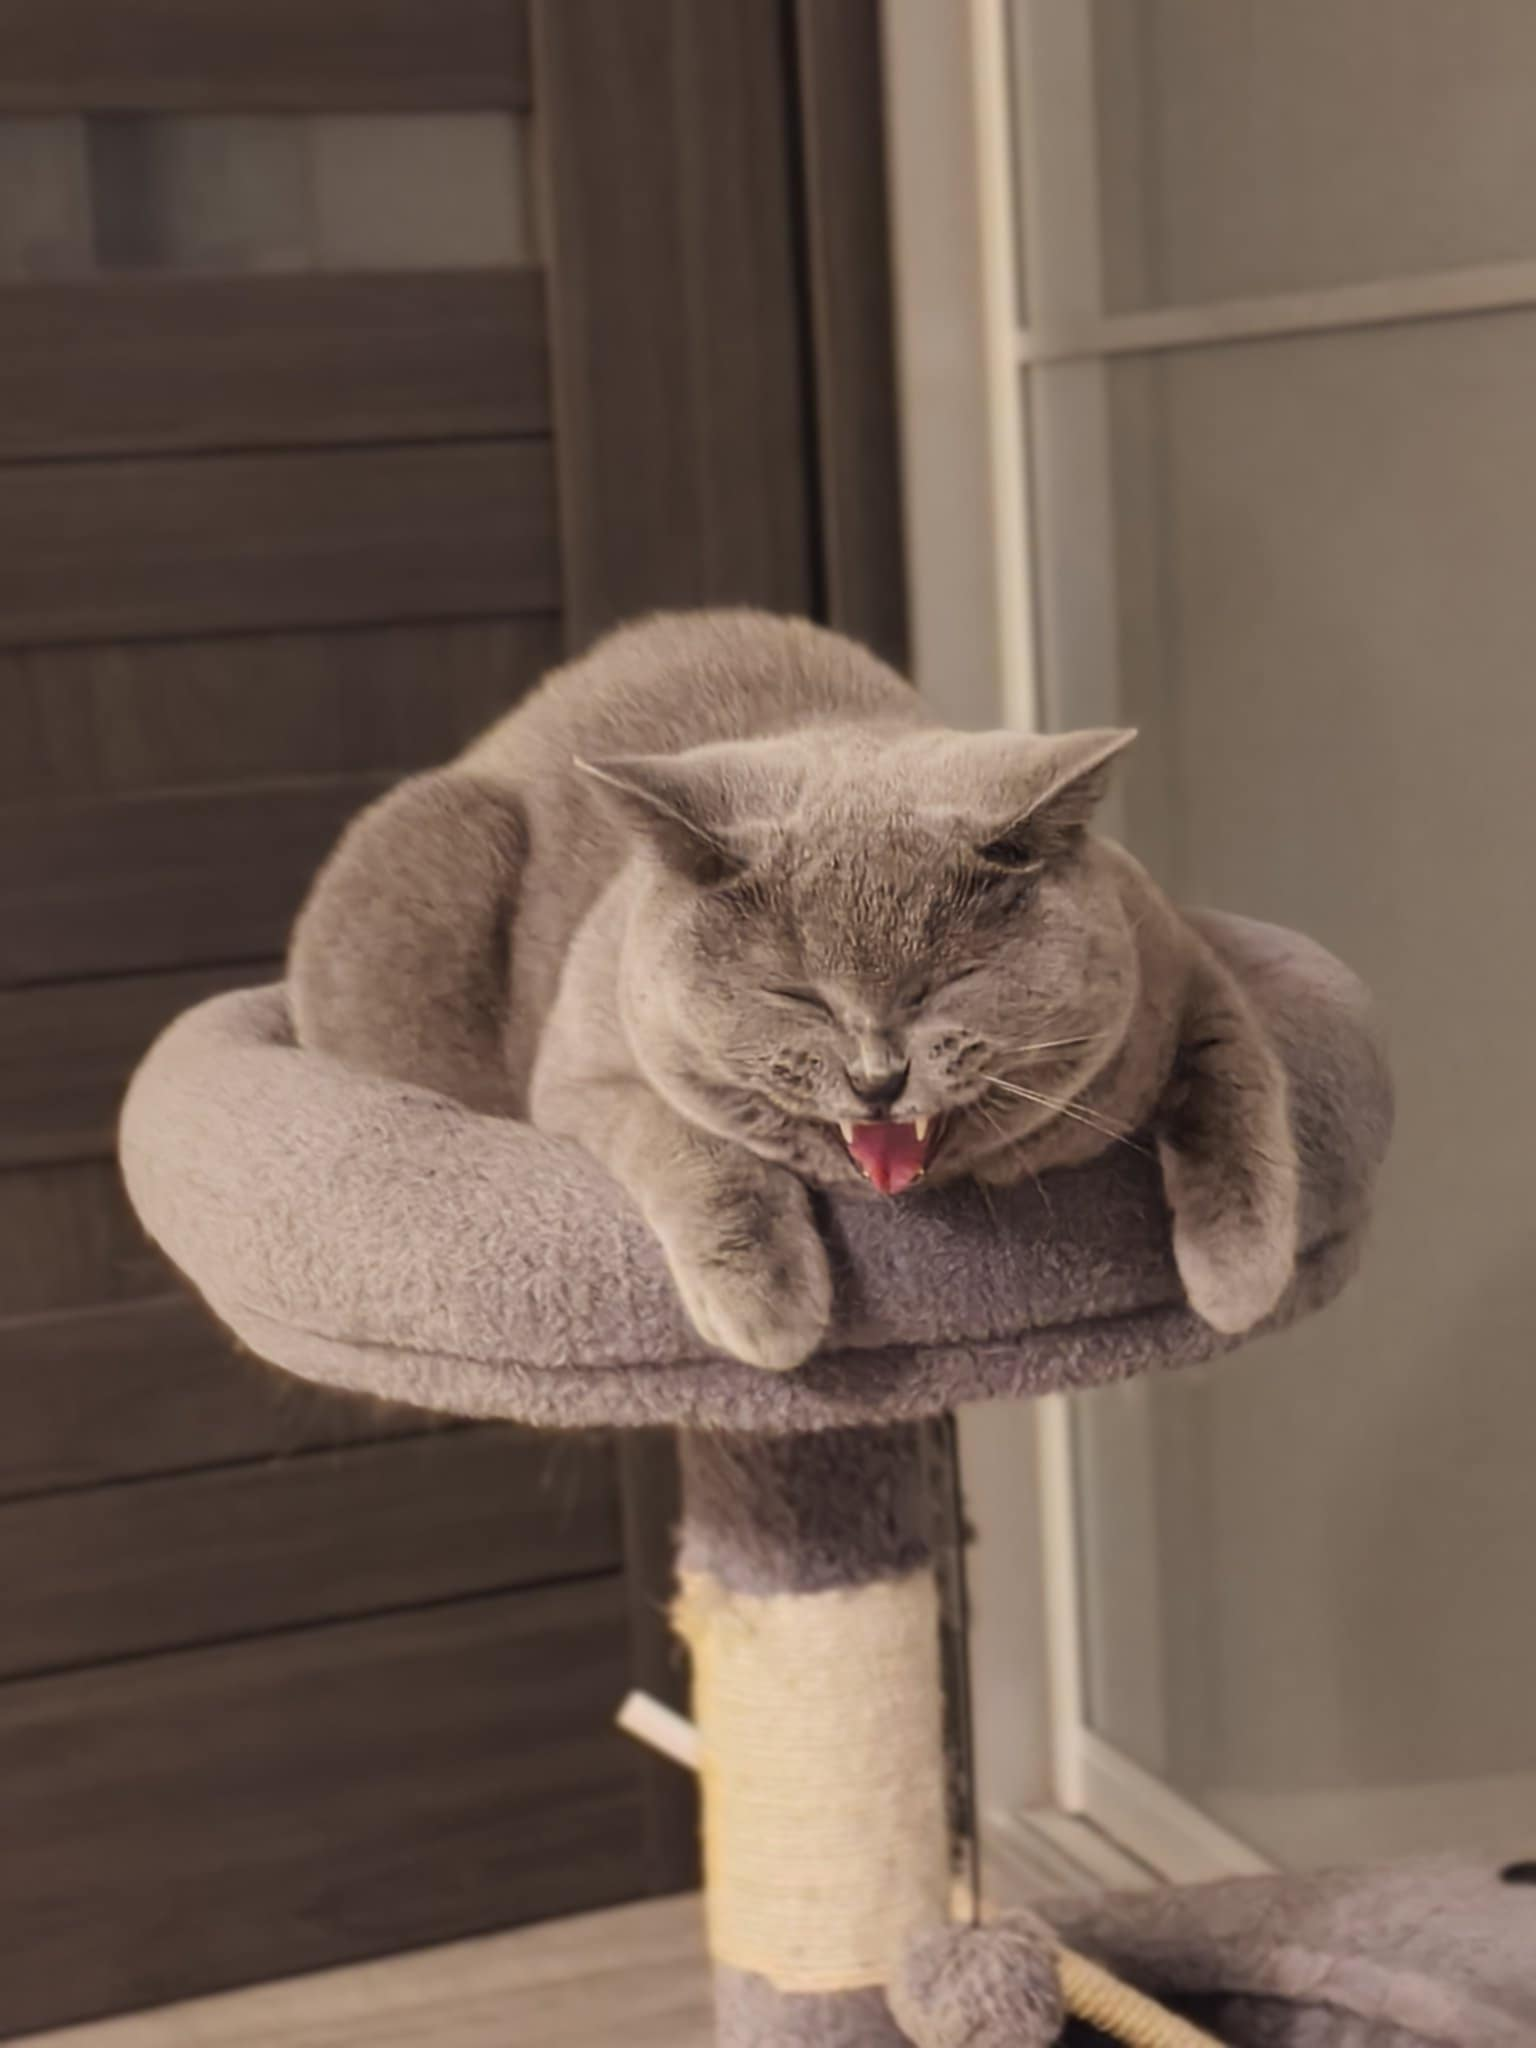
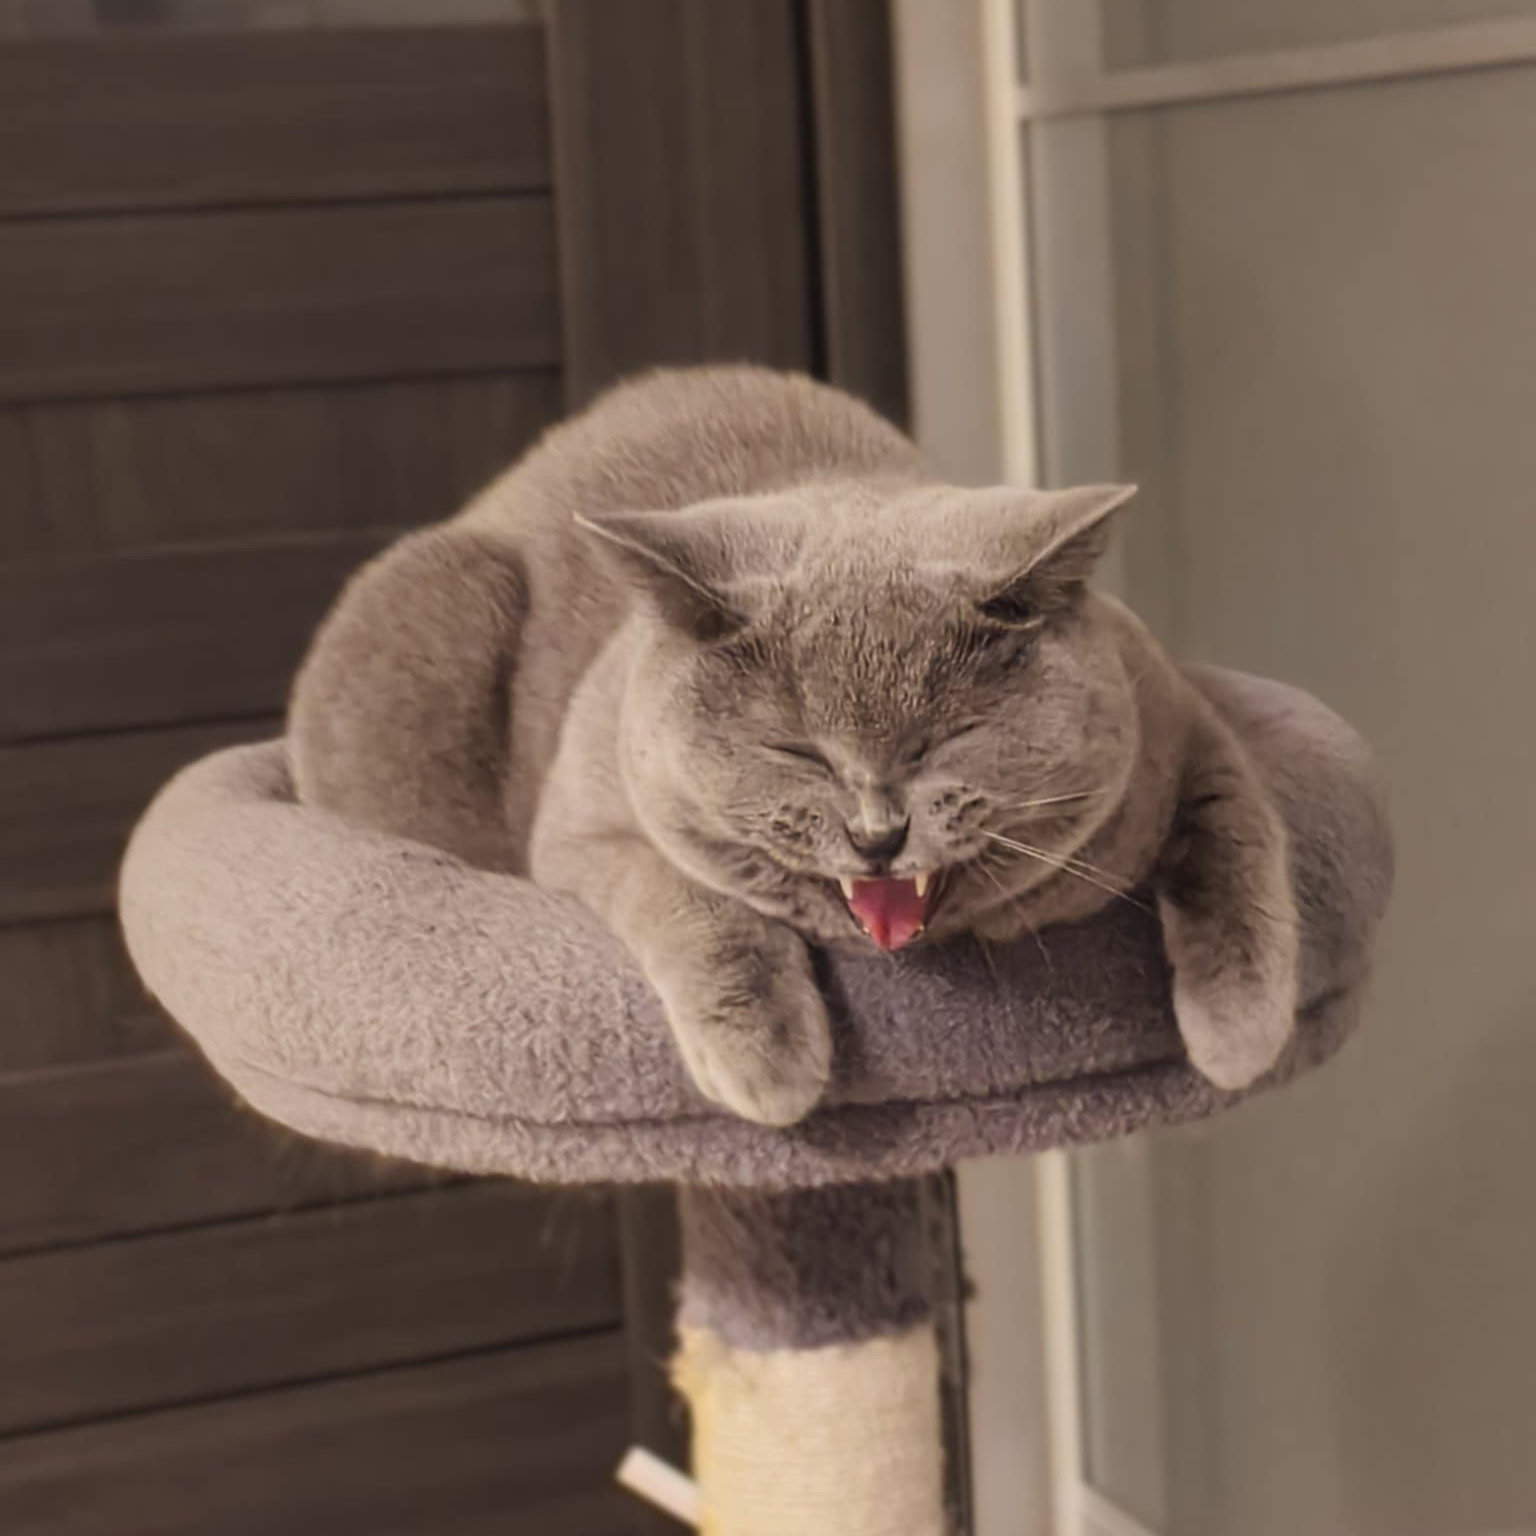
Update cat images in README and adjust styling

diff --git a/README.md b/README.md
@@ -5,8 +5,8 @@ Welcome to my GitHub profile! I'm a developer with expertise in full-stack web d
 ## 😺 Meet My Coding Assistants
 
 <div align="center">
-  <img src="cat1.jpg" width="300" height="300" style="object-fit: cover" alt="My cat assistant #1" />
-  <img src="cat2.jpg" width="300" height="300" style="object-fit: cover" alt="My cat assistant #2" />
+  <img src="cat1.jpg" width="300" height="300" alt="My cat assistant #1" />
+  <img src="cat2.jpg" width="300" height="300" alt="My cat assistant #2" />
   <p><i>My feline coding partners who ensure I never miss a bug (or a nap)</i></p>
 </div>
 
